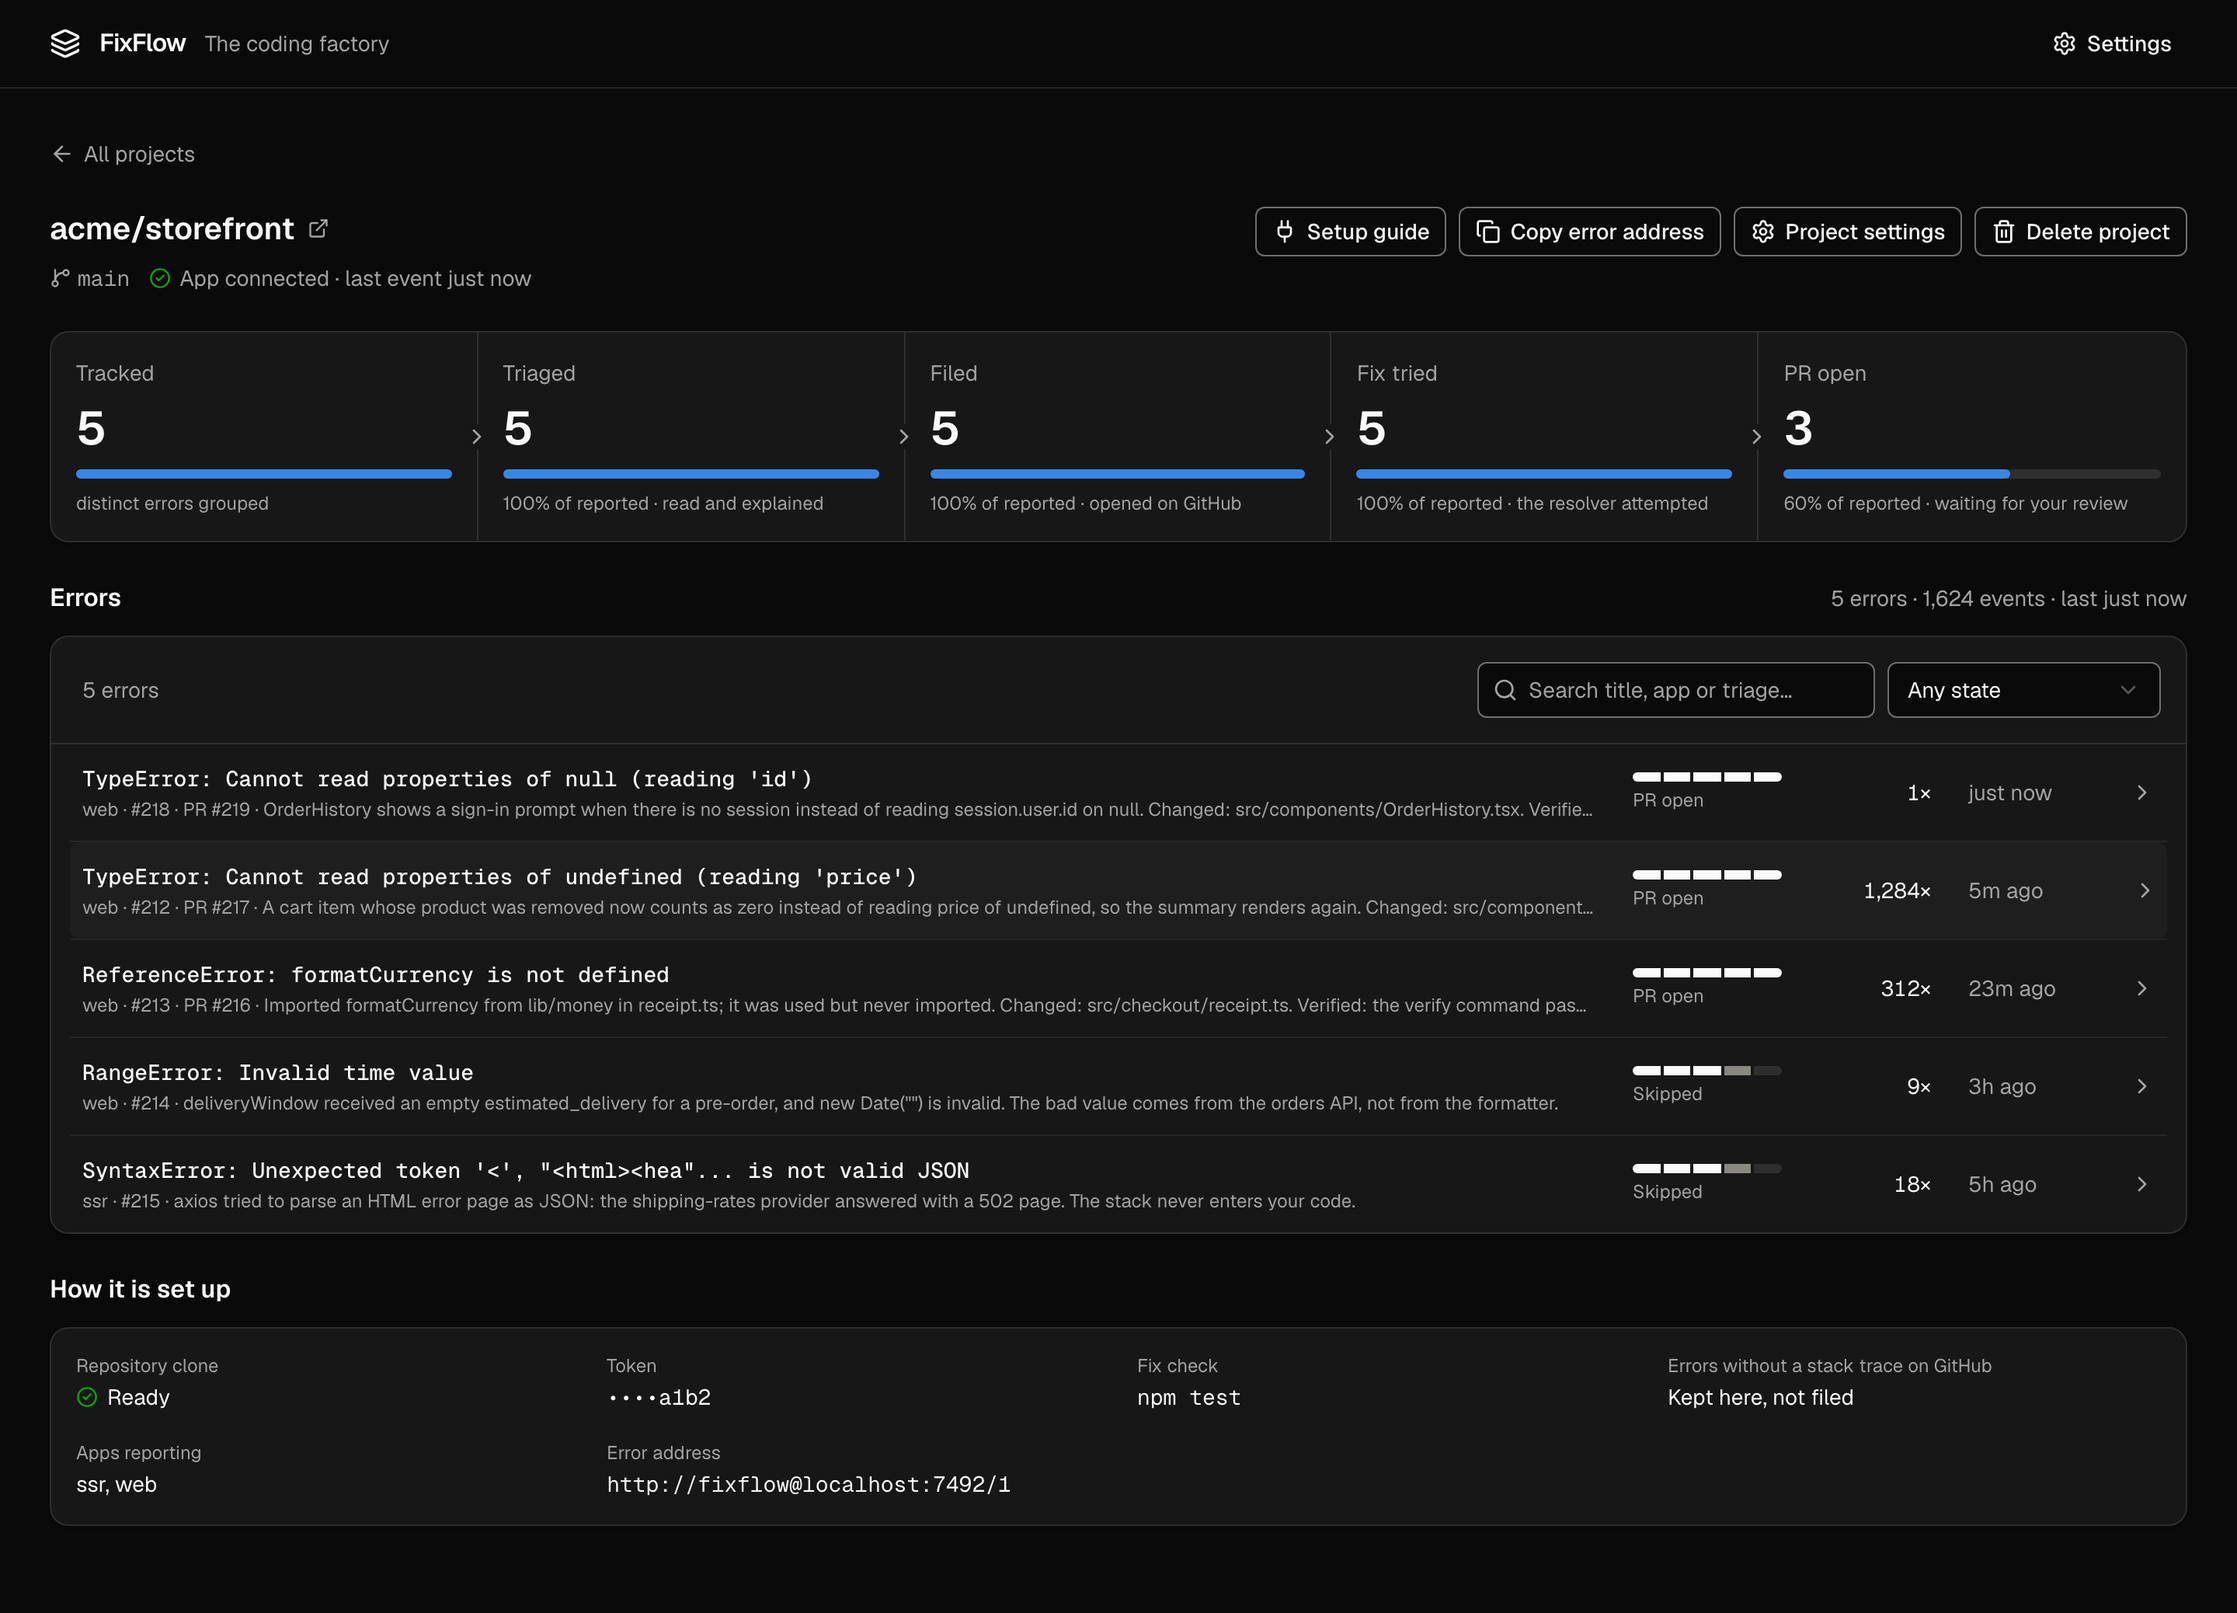
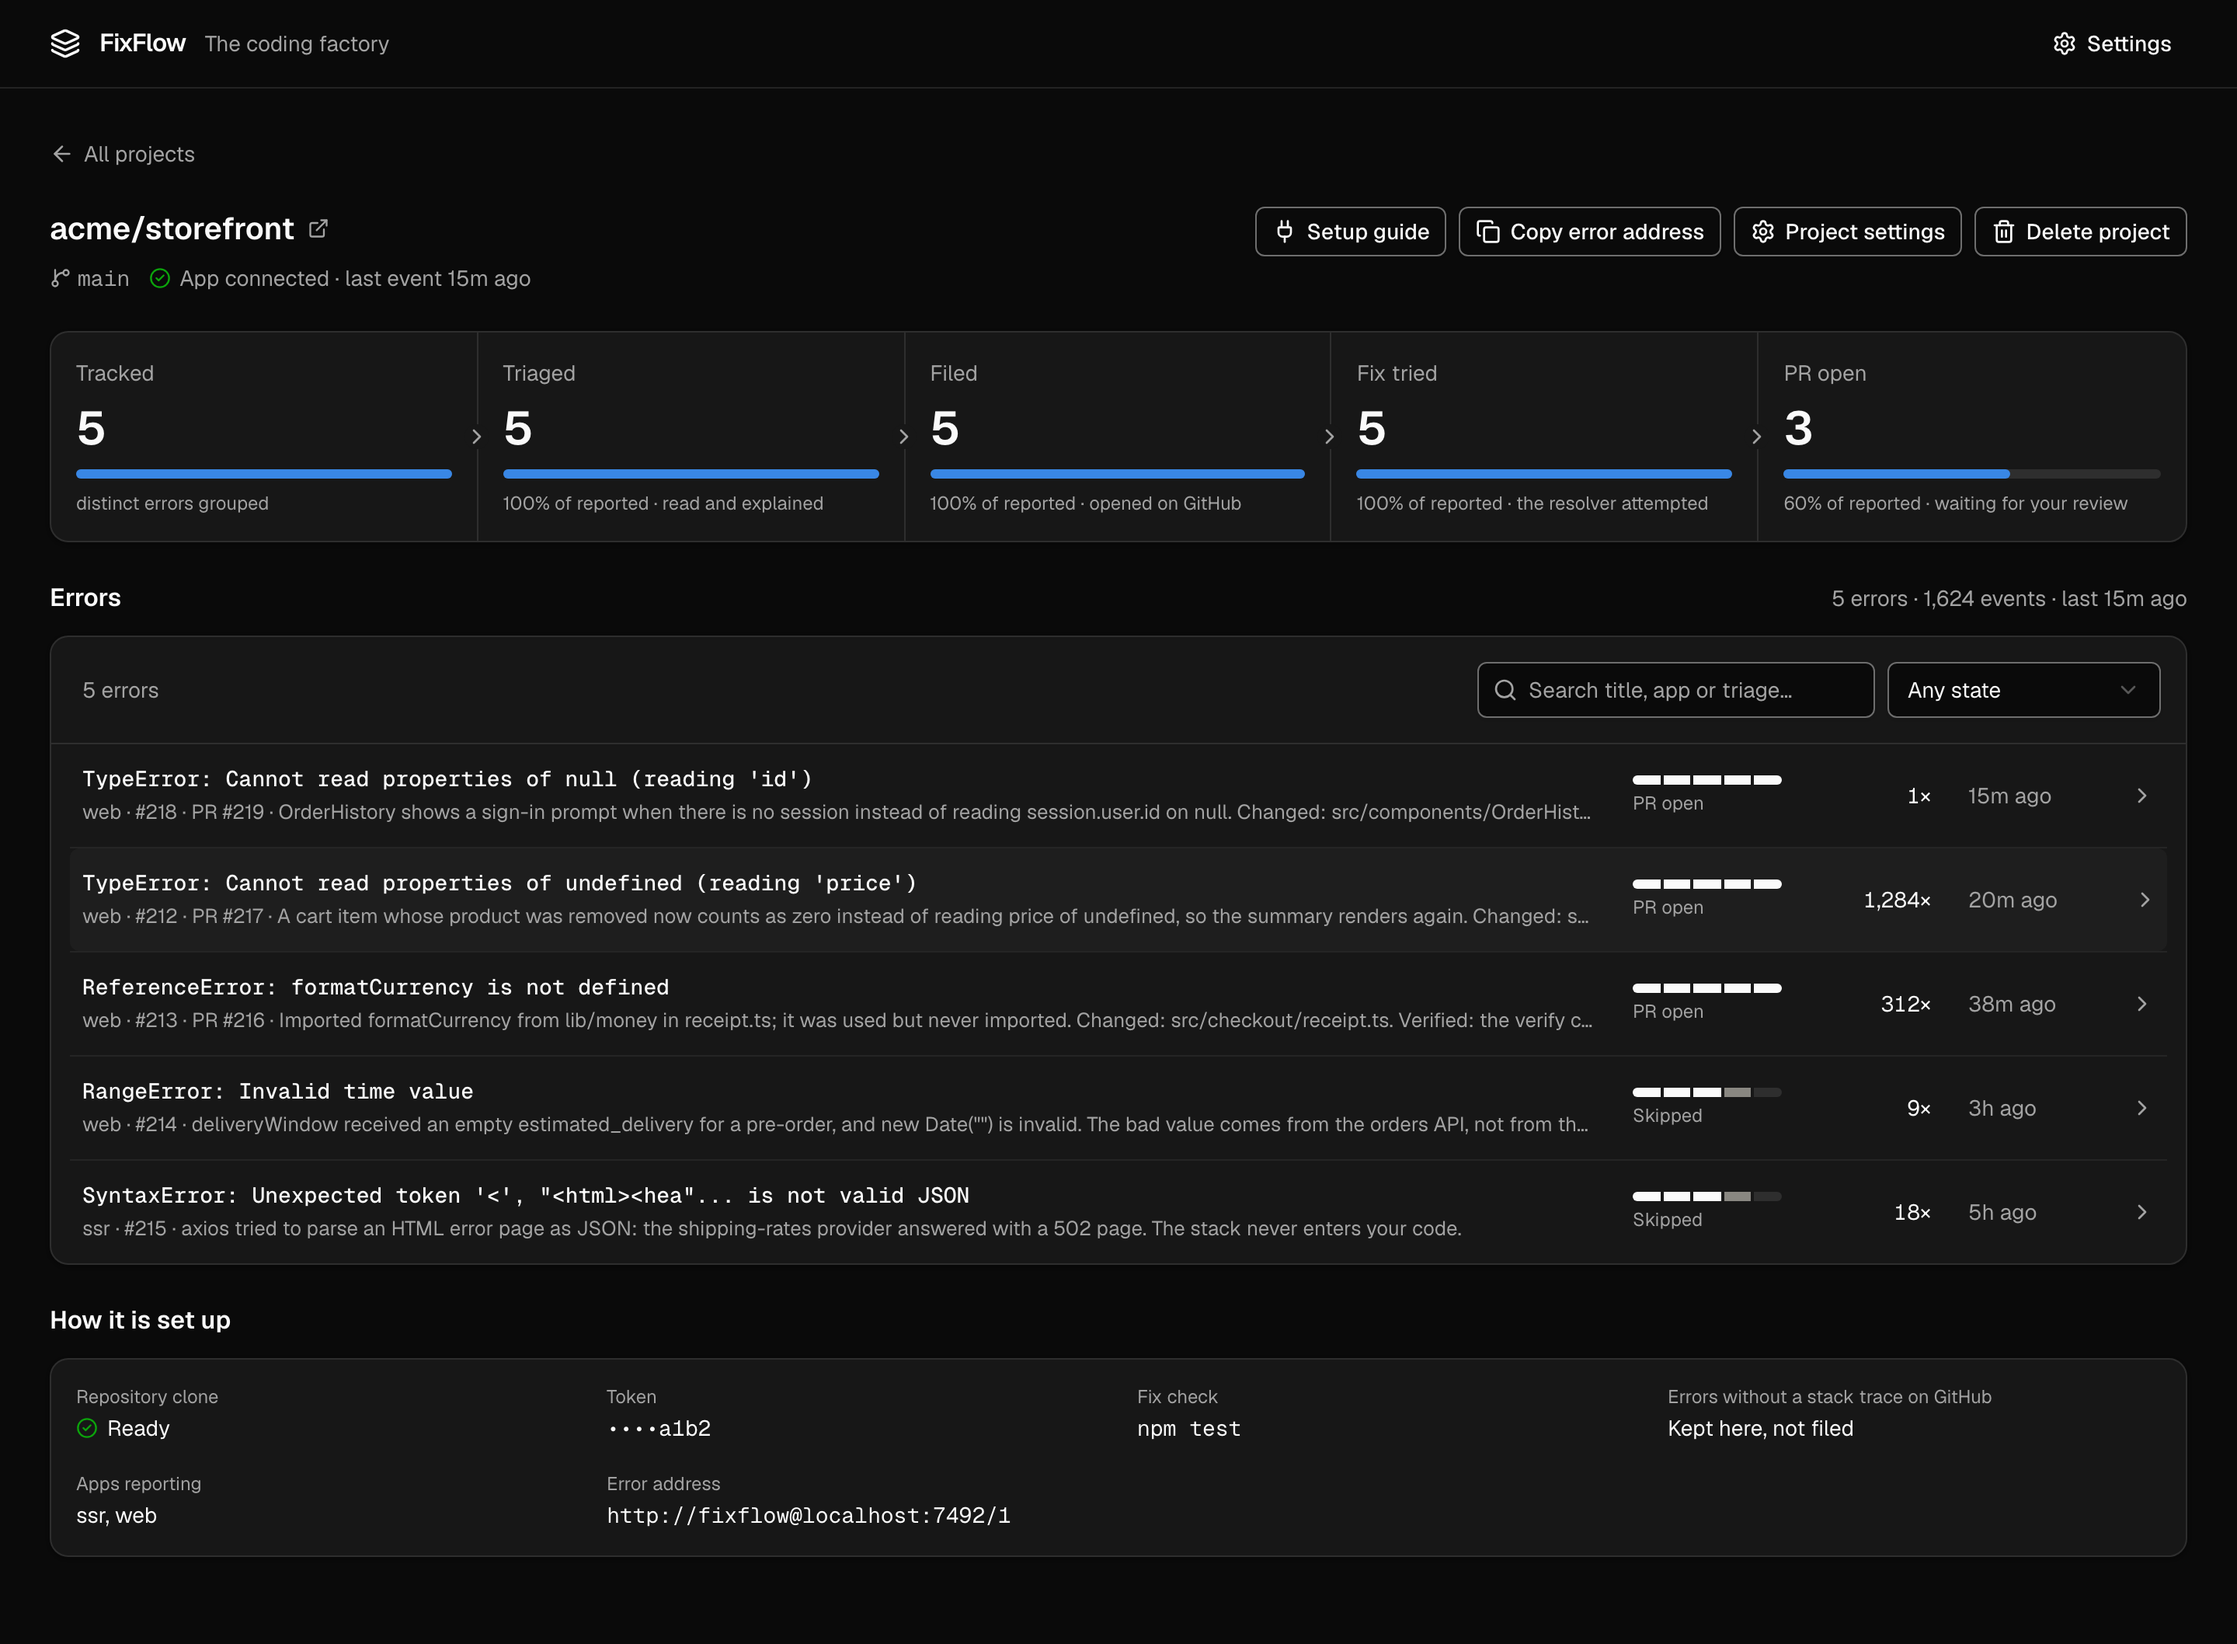
Set Delete apart on project cards, enlarge error-row notes, and fix the Errors tab mentions
Errors live on each project's page now, so the README and reference no longer point at an
Errors tab. Screenshots are refreshed to match.

diff --git a/web/src/components/projects/ProjectCard.tsx b/web/src/components/projects/ProjectCard.tsx
@@ -109,6 +109,8 @@ export function ProjectCard({ project, group, busy, onConnect, onCopyDsn, onRetr
         <div className="-mr-2 -mt-1 flex shrink-0">
           {canRetry && <IconAction label={c.actions.forProject(project.setup.state === 'failed' ? c.actions.retry : c.actions.cloneNow, project.repo)} icon={RotateCw} disabled={busy} onClick={onRetry} />}
           <IconAction label={c.actions.forProject(c.actions.settings, project.repo)} icon={Settings} disabled={busy} onClick={onSettings} />
+          {/* Keeps Delete apart from Settings, so a slip of the pointer does not land on it. */}
+          <span className="mx-1.5 my-2 w-px bg-border" aria-hidden />
           <IconAction label={c.actions.forProject(c.actions.delete, project.repo)} icon={Trash2} destructive disabled={busy} onClick={onDelete} />
         </div>
       </header>

diff --git a/web/src/components/errors/ErrorRow.tsx b/web/src/components/errors/ErrorRow.tsx
@@ -43,7 +43,7 @@ export function ErrorRow({ issue, onOpen }: { issue: TrackerIssue; onOpen: () =>
         <span className="block truncate font-mono text-sm font-medium" title={formatErrorTitle(issue.title)}>
           {formatErrorTitle(issue.title)}
         </span>
-        <span className="block truncate text-xs text-muted-foreground" title={(issue.resolverStatus === 'PR_OPEN' ? note(issue) : issue.triageMessage) ?? undefined}>
+        <span className="block truncate text-[13px] leading-5 text-muted-foreground" title={(issue.resolverStatus === 'PR_OPEN' ? note(issue) : issue.triageMessage) ?? undefined}>
           {[issue.service, issue.githubIssueNumber !== null ? `#${issue.githubIssueNumber}` : null, note(issue)].filter(Boolean).join(' · ') || ' '}
         </span>
       </span>

diff --git a/docs/reference.md b/docs/reference.md
@@ -87,7 +87,7 @@ With no provider set up for triage, new errors are triaged by built-in rules. Wh
 | `ORCH_ERRORS_RETENTION_DAYS` | `30` | Raw events older than this are pruned hourly; issue rows and counters stay. `0` keeps everything. |
 | `ORCH_ERRORS_DB` | `<data>/errors.db` | |
 
-**What reaches GitHub.** Every error is kept in the Errors tab. A GitHub issue is opened only for an error that carries a stack trace (a bare log line gives a fixer little to go on), unless the project ticks *Also file errors without a stack trace on GitHub*. Grouping uses the exception type, the crashing file (origin, query string and content hashes stripped) and that frame's source line text, or its function name when the SDK sent no source. The message is not used, so changing ids in it do not split a group. An event without a stack is grouped by its message with numbers, UUIDs and hex ids replaced. The SDK's `fingerprint` (including `{{ default }}`) overrides all of this. Groups are per project and per `service` tag.
+**What reaches GitHub.** Every error is kept in FixFlow and listed on its project's page. A GitHub issue is opened only for an error that carries a stack trace (a bare log line gives a fixer little to go on), unless the project ticks *Also file errors without a stack trace on GitHub*. Grouping uses the exception type, the crashing file (origin, query string and content hashes stripped) and that frame's source line text, or its function name when the SDK sent no source. The message is not used, so changing ids in it do not split a group. An event without a stack is grouped by its message with numbers, UUIDs and hex ids replaced. The SDK's `fingerprint` (including `{{ default }}`) overrides all of this. Groups are per project and per `service` tag.
 
 ### Resolver
 

diff --git a/README.md b/README.md
@@ -31,7 +31,7 @@ The first `npm start` in a terminal runs a short setup and writes `.env`. It ask
 
 1. **Projects → Add project**: `owner/name`, a GitHub token, the branch to work on, and optionally a check command such as `npm ci && npm test`.
 2. Set your SDK's `dsn` to the project's DSN, for example `http://fixflow@localhost:3000/1`.
-3. Errors appear on the **Errors** tab. Those with a stack trace are filed as GitHub issues.
+3. Errors appear on the project's page (**View errors** on its card). Those with a stack trace are filed as GitHub issues.
 
 From a [release tarball](https://github.com/Ayesh96/FixFlow/releases/latest) there is no build step: check it with `sha256sums.txt`, unpack, and run `node bin/fixflow.mjs`. The first run asks the same setup questions.
 
